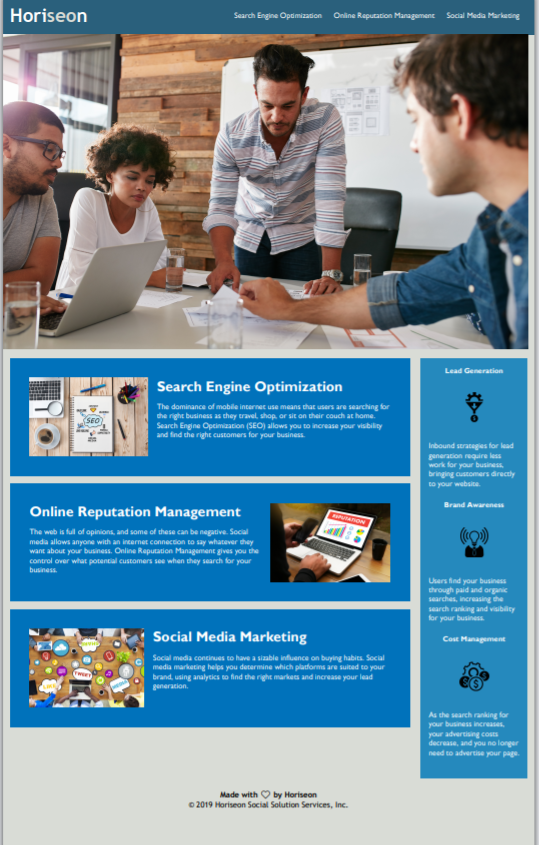
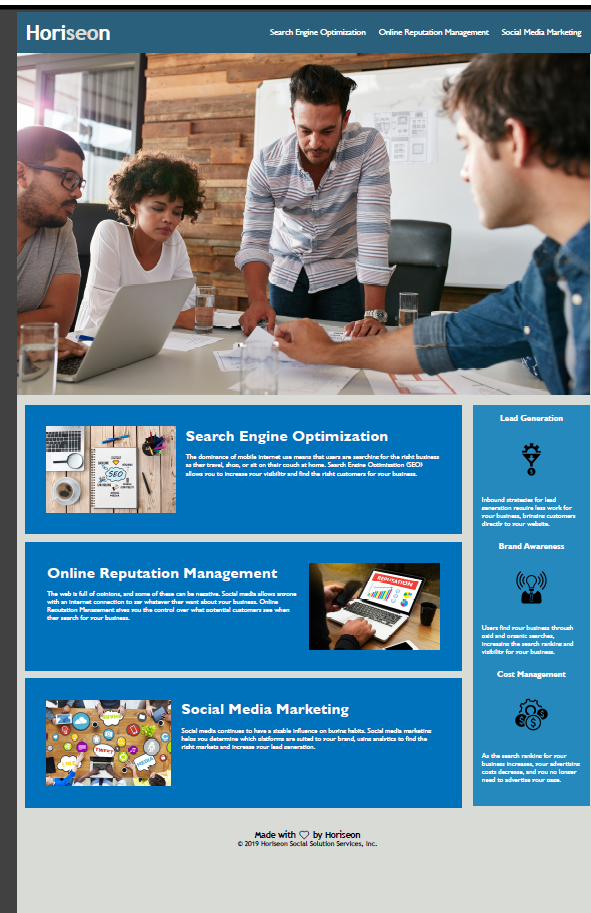
Completed changes to html and css files

diff --git a/Develop/index.html b/Develop/index.html
@@ -3,12 +3,13 @@
 
 <head>
     <meta charset="UTF-8" />
+    <link rel="stylesheet" href="./assets/css/reset.css">
     <link rel="stylesheet" href="./assets/css/style.css">
-    <title>Horseon Marketing Agency</title>
+    <title>"Horiseon Marketing Agency"</title>
 </head>
 
 <body>
-    <header>
+    <header class="header">
         <h1>Hori<span class="seo">seo</span>n</h1>
         <nav>
             <ul>
@@ -24,59 +25,61 @@
             </ul>
         </nav>
     </header>
-    <section class="hero"></section>
-    <main class="content">
-        <div id="search-engine-optimization" class="offerings">
-            <img src="./assets/images/search-engine-optimization.jpg" alt="Search Engine Optimization" class="float-left" />
+    
+    <figure class="hero"></figure>
+
+    <main>
+        <section id="search-engine-optimization" class="offerings">
+            <img src="./assets/images/search-engine-optimization.jpg" class="float-left" />
             <h2>Search Engine Optimization</h2>
             <p>
                 The dominance of mobile internet use means that users are searching for the right business as they travel, shop, or sit on their couch at home. Search Engine Optimization (SEO) allows you to increase your visibility and find the right customers for your business.
             </p>
-        </div>
-        <div id="online-reputation-management" class="offerings">
-            <img src="./assets/images/online-reputation-management.jpg" alt="Online Reputation Management" class="float-right" />
+        </section>
+        <section id="online-reputation-management" class="offerings">
+            <img src="./assets/images/online-reputation-management.jpg" class="float-right" />
             <h2>Online Reputation Management</h2>
             <p>
                 The web is full of opinions, and some of these can be negative. Social media allows anyone with an internet connection to say whatever they want about your business. Online Reputation Management gives you the control over what potential customers see when they search for your business.
             </p>
-        </div>
-        <div id="social-media-marketing" class="offerings">
-            <img src="./assets/images/social-media-marketing.jpg" alt="Social Media Marketing" class="float-left" />
+        </section>
+        <section id="social-media-marketing" class="offerings">
+            <img src="./assets/images/social-media-marketing.jpg" class="float-left" />
             <h2>Social Media Marketing</h2>
             <p>
                 Social media continues to have a sizable influence on buying habits. Social media marketing helps you determine which platforms are suited to your brand, using analytics to find the right markets and increase your lead generation.
             </p>
-        </div>
+        </section>
     </main>
-    <section>
-        <div class="benefits">
+    <aside> 
+        <article class="benefits">
             <h3>Lead Generation</h3>
             <img src="./assets/images/lead-generation.png" />
             <p>
                 Inbound strategies for lead generation require less work for your business, bringing customers directly to your website.
             </p>
-        </div>
-        <div class="benefits">
+        </article>
+        <article class="benefits">
             <h3>Brand Awareness</h3>
             <img src="./assets/images/brand-awareness.png" />
             <p>
                 Users find your business through paid and organic searches, increasing the search ranking and visibility for your business.
             </p>
-        </div>
-        <div class="benefits">
+        </article>
+        <article class="benefits">
             <h3>Cost Management</h3>
             <img src="./assets/images/cost-management.png"></img>
             <p>
                 As the search ranking for your business increases, your advertising costs decrease, and you no longer need to advertise your page.
             </p>
-        </div>
-    </section>
-    <div class="footer">
+        </article>
+    </aside>
+    <footer class="footer">
         <h2>Made with ❤ by Horiseon</h2>
         <p>
             &copy; 2019 Horiseon Social Solution Services, Inc.
         </p>
     </div>
-</body>
+    </footer>
 
 </html>

diff --git a/Develop/assets/css/style.css b/Develop/assets/css/style.css
@@ -3,28 +3,28 @@
     padding: 0;
     margin: 0;
 }
-
+/* Setting background color for the page */
 body {
     background-color: #d9dcd6;
 }
-/* Horseon page hearder */
-header {
+/* styling for hearder font and background color */
+.header {
     padding: 20px;
     font-family: 'Trebuchet MS', 'Lucida Sans Unicode', 'Lucida Grande', 'Lucida Sans', Arial, sans-serif;
     background-color: #2a607c;
     color: #ffffff;
 }
 
-header h1 {
+.header h1 {
     display: inline-block;
     font-size: 48px;
 }
 
-header h1 .seo {
+.header h1 .seo {
     color: #d9dcd6;
 }
-/* Navigation options formatted to reference specifc sectiosn in main content */
-header nav {
+
+.header nav {
     padding-top: 15px;
     margin-right: 20px;
     float: right;
@@ -32,11 +32,11 @@ header nav {
     font-size: 20px;
 }
 
-header nav ul {
+.header nav ul {
     list-style-type: none;
 }
 
-header nav ul li {
+.header nav ul li {
     display: inline-block;
     margin-left: 25px;
 }
@@ -48,8 +48,8 @@ a {
 
 p {
     font-size: 16px;
-}
-/* Background image formatted to appear above the main content */
+}   
+/* setting size of the background image */
 .hero {
     height: 800px;
     width: 100%;
@@ -68,40 +68,14 @@ p {
     float: right;
     margin-left: 25px;
 }
-/* Main content referenced through navigation bar */
-.content {
+
+/*  size of the main container */
+main {
     width: 75%;
     display: inline-block;
     margin-left: 20px;
 }
-
-section {
-    margin-right: 20px;
-    padding: 20px;
-    clear: both;
-    float: right;
-    width: 20%;
-    height: 100%;
-    font-family: 'Gill Sans', 'Gill Sans MT', Calibri, 'Trebuchet MS', sans-serif;
-    background-color: #2589bd;
-}
-
-.benefits {
-    margin-bottom: 32px;
-    color: #ffffff;
-}
-
-.benefits h3 {
-    margin-bottom: 10px;
-    text-align: center;
-}
-
-.benefits img {
-    display: block;
-    margin: 10px auto;
-    max-width: 150px;
-}
-/* Offerings are formatted to align right of the main content */
+/*  box layout and font sylings for main content */
 .offerings {
     margin-bottom: 20px;
     padding: 50px;
@@ -119,7 +93,37 @@ section {
     margin-bottom: 20px;
     font-size: 36px;
 }
-/* Footer formatted to align in the center */
+
+/*  box layout and fonts for the side content */
+aside {
+    margin-right: 20px;
+    padding: 20px;
+    clear: both;
+    float: right;
+    width: 20%;
+    height: 100%;
+    font-family: 'Gill Sans', 'Gill Sans MT', Calibri, 'Trebuchet MS', sans-serif;
+    background-color: #2589bd;
+}
+
+.benefits {
+    margin-bottom: 32px;
+    color: #ffffff;
+}
+
+
+.benefits h3 {
+    margin-bottom: 10px;
+    text-align: center;
+}
+
+.benefits img {
+    display: block;
+    margin: 10px auto;
+    max-width: 150px;
+}
+
+/* styling for copyright information */
 .footer {
     padding: 30px;
     clear: both;

diff --git a/Develop/assets/css/reset.css b/Develop/assets/css/reset.css
@@ -1,0 +1,48 @@
+/* http://meyerweb.com/eric/tools/css/reset/ 
+   v2.0 | 20110126
+   License: none (public domain)
+*/
+
+html, body, div, span, applet, object, iframe,
+h1, h2, h3, h4, h5, h6, p, blockquote, pre,
+a, abbr, acronym, address, big, cite, code,
+del, dfn, em, img, ins, kbd, q, s, samp,
+small, strike, strong, sub, sup, tt, var,
+b, u, i, center,
+dl, dt, dd, ol, ul, li,
+fieldset, form, label, legend,
+table, caption, tbody, tfoot, thead, tr, th, td,
+article, aside, canvas, details, embed, 
+figure, figcaption, footer, header, hgroup, 
+menu, nav, output, ruby, section, summary,
+time, mark, audio, video {
+	margin: 0;
+	padding: 0;
+	border: 0;
+	font-size: 100%;
+	font: inherit;
+	vertical-align: baseline;
+}
+/* HTML5 display-role reset for older browsers */
+article, aside, details, figcaption, figure, 
+footer, header, hgroup, menu, nav, section {
+	display: block;
+}
+body {
+	line-height: 1;
+}
+ol, ul {
+	list-style: none;
+}
+blockquote, q {
+	quotes: none;
+}
+blockquote:before, blockquote:after,
+q:before, q:after {
+	content: '';
+	content: none;
+}
+table {
+	border-collapse: collapse;
+	border-spacing: 0;
+}

diff --git a/README.md b/README.md
@@ -1,5 +1,15 @@
-# MarketingAgencyAS
-Horiseon Marketing Agency 
+# Horiseon Marketing Agency
+
+```
+In this code refactor project the following changes were implemented:
+
+> Added reset.css file
+> Fixed the references from the Navigation bar 
+> Replace <div> tags with approproate semantic elements
+> Removed class redundancies and consolidates identfical classes
+> Added comments to css file
+
+```
 
 ## Application Features
 
@@ -13,11 +23,8 @@ The webage illustrates some of the key offerings of Horiseon Marketing Agency
 
 The following image shows the web application's appearance:
 
-![marketing agency services demo](../Assets/0horiseon-marketing-agency-demo.png)
+![horiseon marketing agency demo](../Assets/0horiseon-marketing-agency-demo.png)
 
-## Application URL
-
-* The Horiseon Marketing Agency application is hosted in Github repository: MarketingAgencyAS application is [HMarketing Agency](https://asheth22.github.io/MarketingAgencyAS/)
 
 ## Application URL
 
